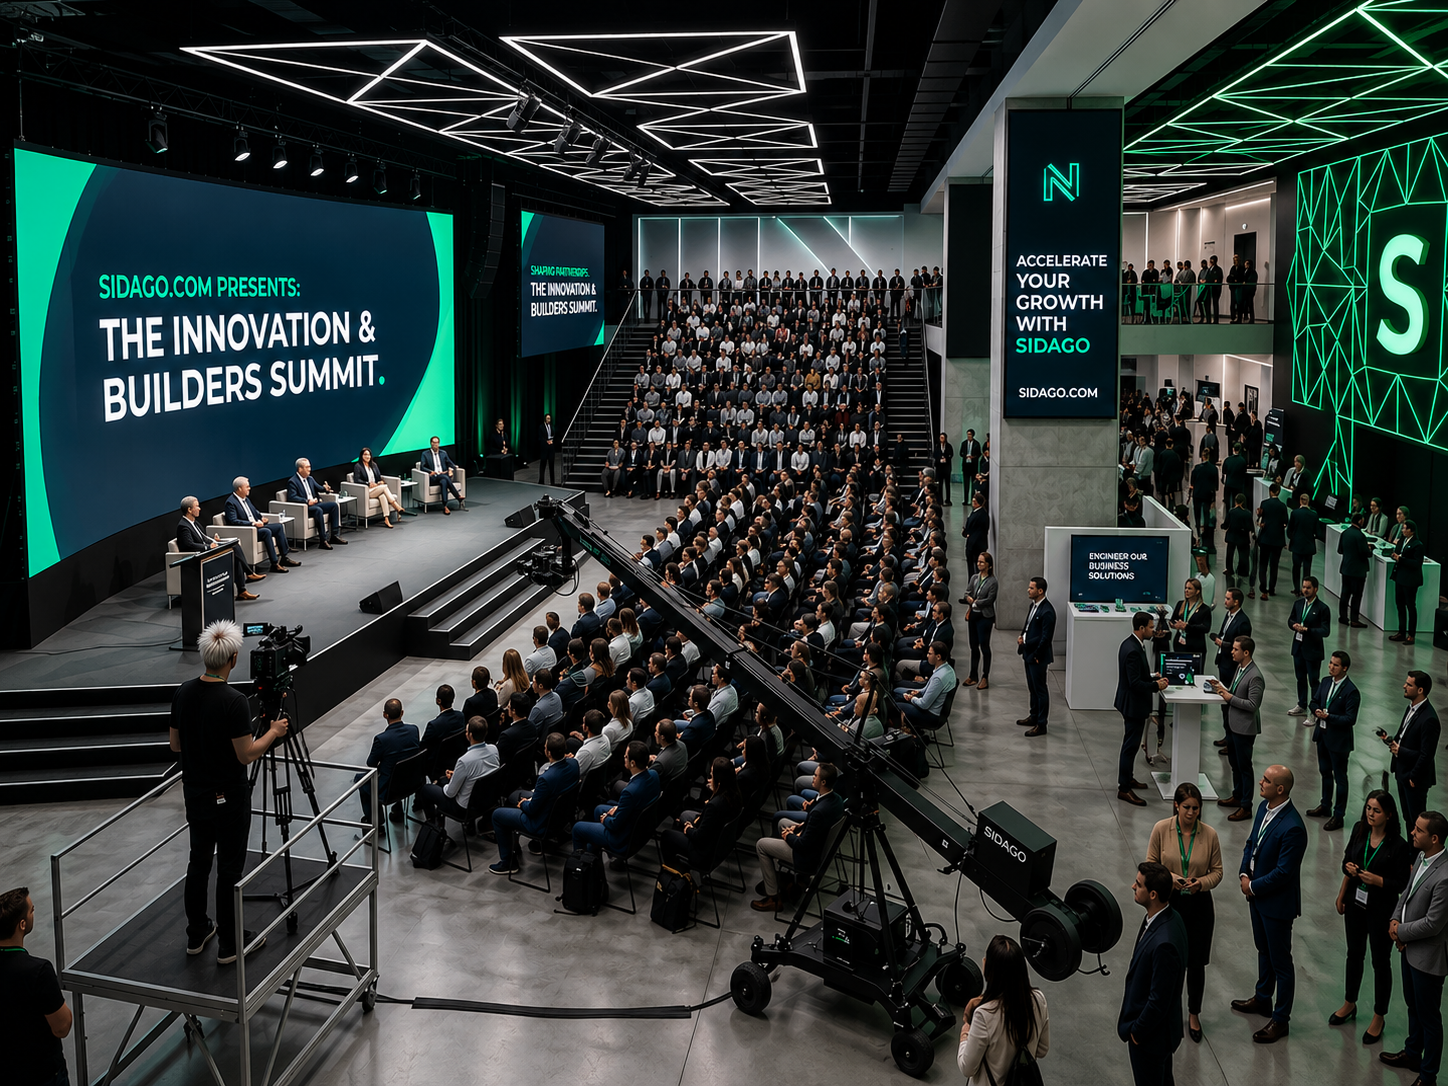
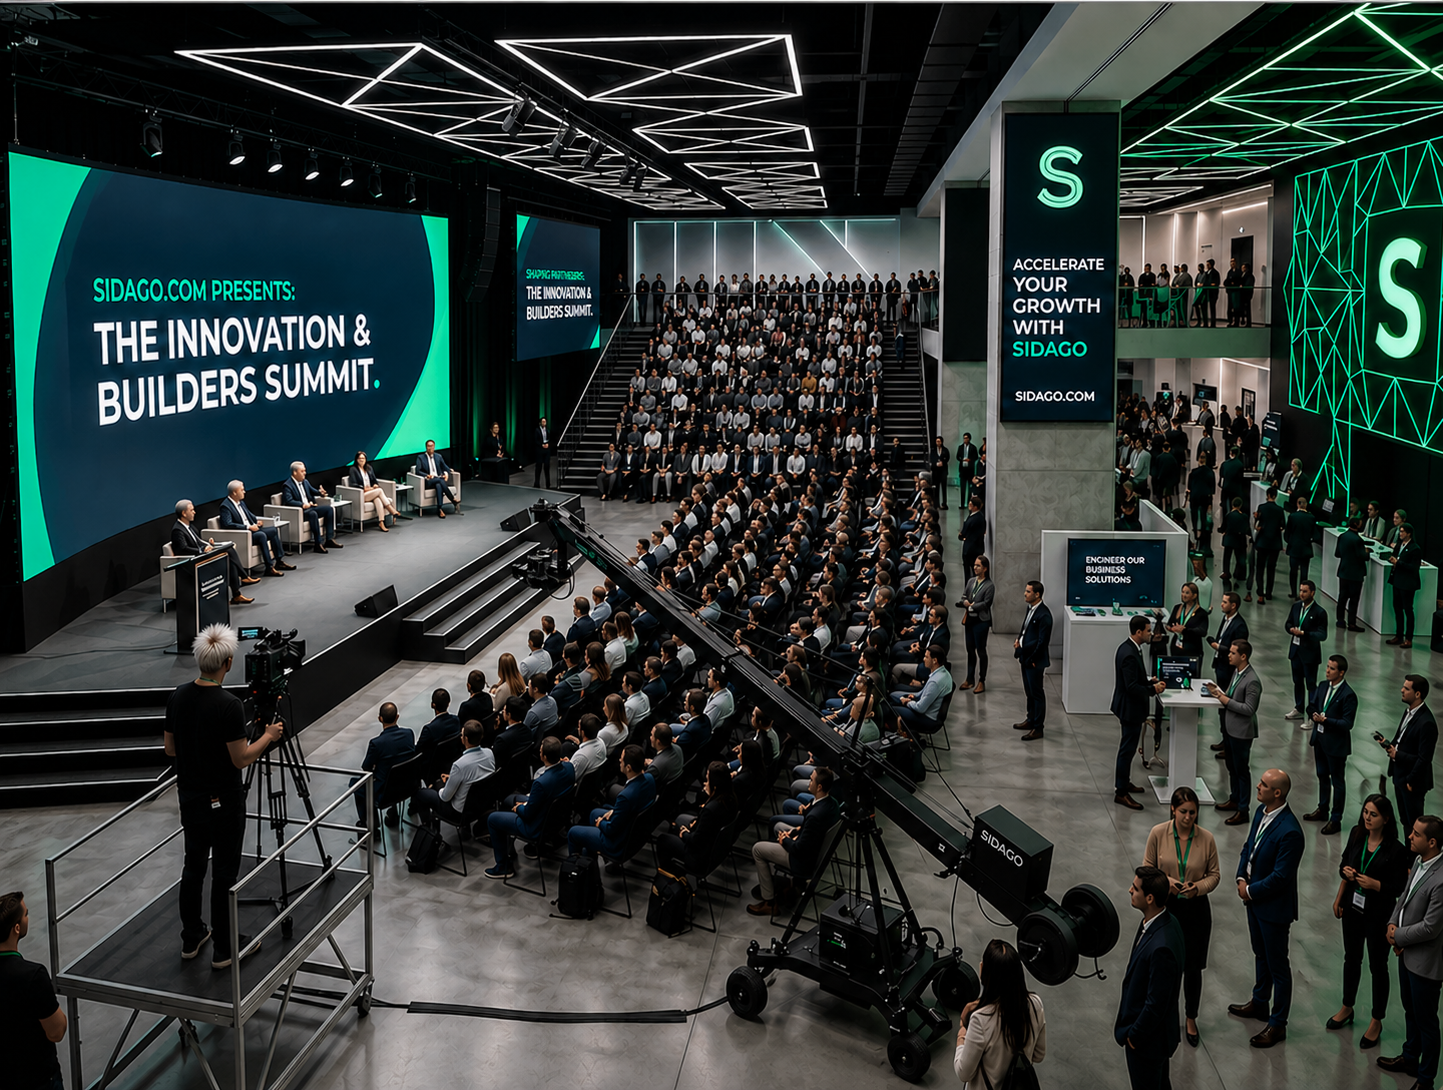
issue resolve

diff --git a/src/components/sections/v2/salespage/SalesLandingView.js b/src/components/sections/v2/salespage/SalesLandingView.js
@@ -41,6 +41,27 @@ const stagger = {
 
 const viewportOnce = { once: true, amount: 0.14 };
 
+const featureCardVariants = {
+  rest: {
+    borderColor: "#e8e5e0",
+  },
+  hover: {
+    borderColor: "#ff7a59",
+    transition: { duration: 0.28, ease: "easeOut" },
+  },
+};
+
+const featureBarVariants = {
+  rest: {
+    scaleX: 0,
+    transition: { duration: 0.4, ease: "easeOut" },
+  },
+  hover: {
+    scaleX: 1,
+    transition: { duration: 0.4, ease: "easeOut" },
+  },
+};
+
 const trustChips = [
   "Chicago, USA",
   "Dhaka, Bangladesh",
@@ -127,6 +148,11 @@ const featureHighlights = [
     title: "Use online networks with confidence",
     text:
       "Sidago specifically highlights online networks as a way to make communication easier while keeping information safe and secure.",
+  },
+  {
+    title: "Deliver measurable business outcomes",
+    text:
+      "Every Sidago engagement is tied to real results — reduced costs, faster execution, and compounding value across every service line.",
   },
 ];
 
@@ -538,41 +564,75 @@ function ServicesSection({ reduce }) {
   );
 }
 
+function OptimaTaxLogo() {
+  return (
+    <svg
+      viewBox="0 0 380 180"
+      xmlns="http://www.w3.org/2000/svg"
+      width="320"
+      height="152"
+      aria-hidden
+      className="mx-auto max-w-full"
+    >
+      <defs>
+        <linearGradient id="sales-optima-blue1" x1="0%" y1="0%" x2="100%" y2="100%">
+          <stop offset="0%" stopColor="#5ab4e8" />
+          <stop offset="100%" stopColor="#1a6ab0" />
+        </linearGradient>
+        <linearGradient id="sales-optima-blue2" x1="0%" y1="0%" x2="100%" y2="100%">
+          <stop offset="0%" stopColor="#1a3a7a" />
+          <stop offset="100%" stopColor="#0d2050" />
+        </linearGradient>
+        <filter id="sales-optima-ds">
+          <feDropShadow dx="0" dy="2" stdDeviation="3" floodColor="#1a3a7a" floodOpacity="0.2" />
+        </filter>
+      </defs>
+      <path d="M80 110 Q100 60 130 50 Q115 90 120 120 Q100 130 80 110Z" fill="url(#sales-optima-blue1)" opacity="0.45" />
+      <path d="M95 118 Q118 58 148 40 Q136 82 138 118 Q118 130 95 118Z" fill="url(#sales-optima-blue1)" opacity="0.65" />
+      <path d="M112 122 Q140 52 168 32 Q158 76 156 122 Q136 134 112 122Z" fill="url(#sales-optima-blue2)" filter="url(#sales-optima-ds)" />
+      <path d="M72 128 Q130 118 188 128 Q130 142 72 128Z" fill="url(#sales-optima-blue1)" opacity="0.5" />
+      <path d="M80 134 Q130 125 180 134" fill="none" stroke="url(#sales-optima-blue1)" strokeWidth="2.5" opacity="0.6" />
+      <text x="198" y="80" fontFamily="Georgia,serif" fontSize="36" fontWeight="700" fill="#1a2a5a" letterSpacing="-0.5">Optima</text>
+      <text x="198" y="116" fontFamily="Georgia,serif" fontSize="36" fontWeight="700" fill="#1a2a5a" letterSpacing="-0.5">Tax</text>
+      <text x="313" y="86" fontFamily="saans,sans-serif" fontSize="10" fontWeight="500" fill="#666">SM</text>
+      <line x1="198" y1="126" x2="360" y2="126" stroke="#1a2a5a" strokeWidth="1.2" />
+      <text x="198" y="148" fontFamily="saans,sans-serif" fontSize="17" fontWeight="600" fill="#1a2a5a" letterSpacing="7">RELIEF</text>
+    </svg>
+  );
+}
+
 function FeaturesSection({ reduce }) {
   return (
-    <section className="bg-[#f3f0e8] px-5 py-20 text-[#102117] md:px-10 md:py-28">
-      <div className="container grid gap-12 lg:grid-cols-[minmax(0,0.95fr)_minmax(0,1.05fr)] lg:items-center">
+    <section className="bg-[#f3f0e8] px-5 py-20 text-[#11251a] md:px-12 md:py-[5.5rem]">
+      <div className="container grid grid-cols-1 gap-12 lg:grid-cols-2 lg:items-stretch lg:gap-16">
         <motion.div
+          className="flex h-full min-h-0 flex-col"
           initial="hidden"
           whileInView="visible"
           viewport={viewportOnce}
           variants={fadeIn}
         >
-          <p className="text-xs font-semibold uppercase tracking-[0.28em] text-[#4d8665] md:text-sm">
-            Feature highlights
+          <p className="mb-5 flex items-center gap-2.5 font-blender text-[10px] font-semibold uppercase tracking-[0.2em] text-[#4d8665]">
+            <span className="block h-[1.5px] w-5 bg-[#4d8665]" aria-hidden />
+            Feature Highlights
           </p>
-          <h2 className="mt-4 text-3xl font-medium leading-tight tracking-[-0.04em] text-[#11251a] md:text-5xl">
-            The original Sidago sales message translated into a more premium product experience.
+          <h2 className="text-3xl font-medium leading-tight tracking-[-0.04em] text-[#11251a] md:text-5xl">
+            The original Sidago sales message translated into a more premium
+            product experience.
           </h2>
-          <p className="mt-5 text-base leading-8 text-[#55675c] md:text-lg">
+          <p className="mb-10 mt-5 max-w-2xl text-base leading-8 text-[#55675c] md:text-lg">
             Instead of generic marketing copy, this page keeps Sidago&apos;s
             actual commercial themes: teamwork, relationship strength, customer
             satisfaction, communication, and mutually beneficial business outcomes.
           </p>
 
-          <div className="mt-10 overflow-hidden rounded-[2.2rem] bg-[#dce7df] shadow-[0_28px_80px_rgba(17,43,30,0.12)]">
-            <Image
-              src="/images/Telemarketing2.jpg"
-              alt="Sidago sales operations support"
-              width={1200}
-              height={900}
-              className="h-full w-full object-cover"
-            />
+          <div className="relative flex min-h-[11.5rem] flex-1 items-center justify-center overflow-hidden rounded-2xl border border-[#e8e5e0] bg-white px-8 py-10 before:absolute before:inset-y-0 before:left-0 before:w-1 before:rounded-l-2xl before:bg-[#ff7a59]">
+            <OptimaTaxLogo />
           </div>
         </motion.div>
 
         <motion.div
-          className="grid gap-5"
+          className="flex h-full min-h-0 flex-col gap-4 lg:gap-5"
           variants={stagger}
           initial="hidden"
           whileInView="visible"
@@ -582,20 +642,27 @@ function FeaturesSection({ reduce }) {
             <motion.article
               key={item.title}
               variants={fadeUp}
-              transition={{ duration: reduce ? 0 : undefined }}
-              className="rounded-[2rem] bg-white p-8 shadow-[0_24px_70px_rgba(16,33,23,0.1)]"
+              transition={{ duration: reduce ? 0 : undefined, delay: reduce ? 0 : 0.08 + index * 0.08 }}
             >
-              <div className="flex items-center gap-4">
-                <span className="inline-flex h-10 w-10 items-center justify-center rounded-full bg-[#102117] text-sm font-semibold text-white">
-                  0{index + 1}
-                </span>
-                <h3 className="text-2xl font-medium tracking-[-0.03em] text-[#13271c]">
+              <motion.div
+                initial="rest"
+                animate="rest"
+                whileHover={reduce ? undefined : "hover"}
+                variants={featureCardVariants}
+                className="relative flex h-full w-full cursor-default flex-col overflow-hidden rounded-2xl border bg-white px-7 py-7 md:px-8 md:py-8"
+              >
+                <motion.span
+                  aria-hidden
+                  variants={featureBarVariants}
+                  className="pointer-events-none absolute left-0 top-0 h-[3px] w-full origin-left bg-[#ff7a59]"
+                />
+                <h3 className="text-base font-extrabold tracking-[-0.025em] text-[#11251a]">
                   {item.title}
                 </h3>
-              </div>
-              <p className="mt-5 text-base leading-7 text-[#586b5f]">
-                {item.text}
-              </p>
+                <p className="mt-2.5 text-[0.8125rem] leading-[1.72] text-[#55675c]">
+                  {item.text}
+                </p>
+              </motion.div>
             </motion.article>
           ))}
         </motion.div>
